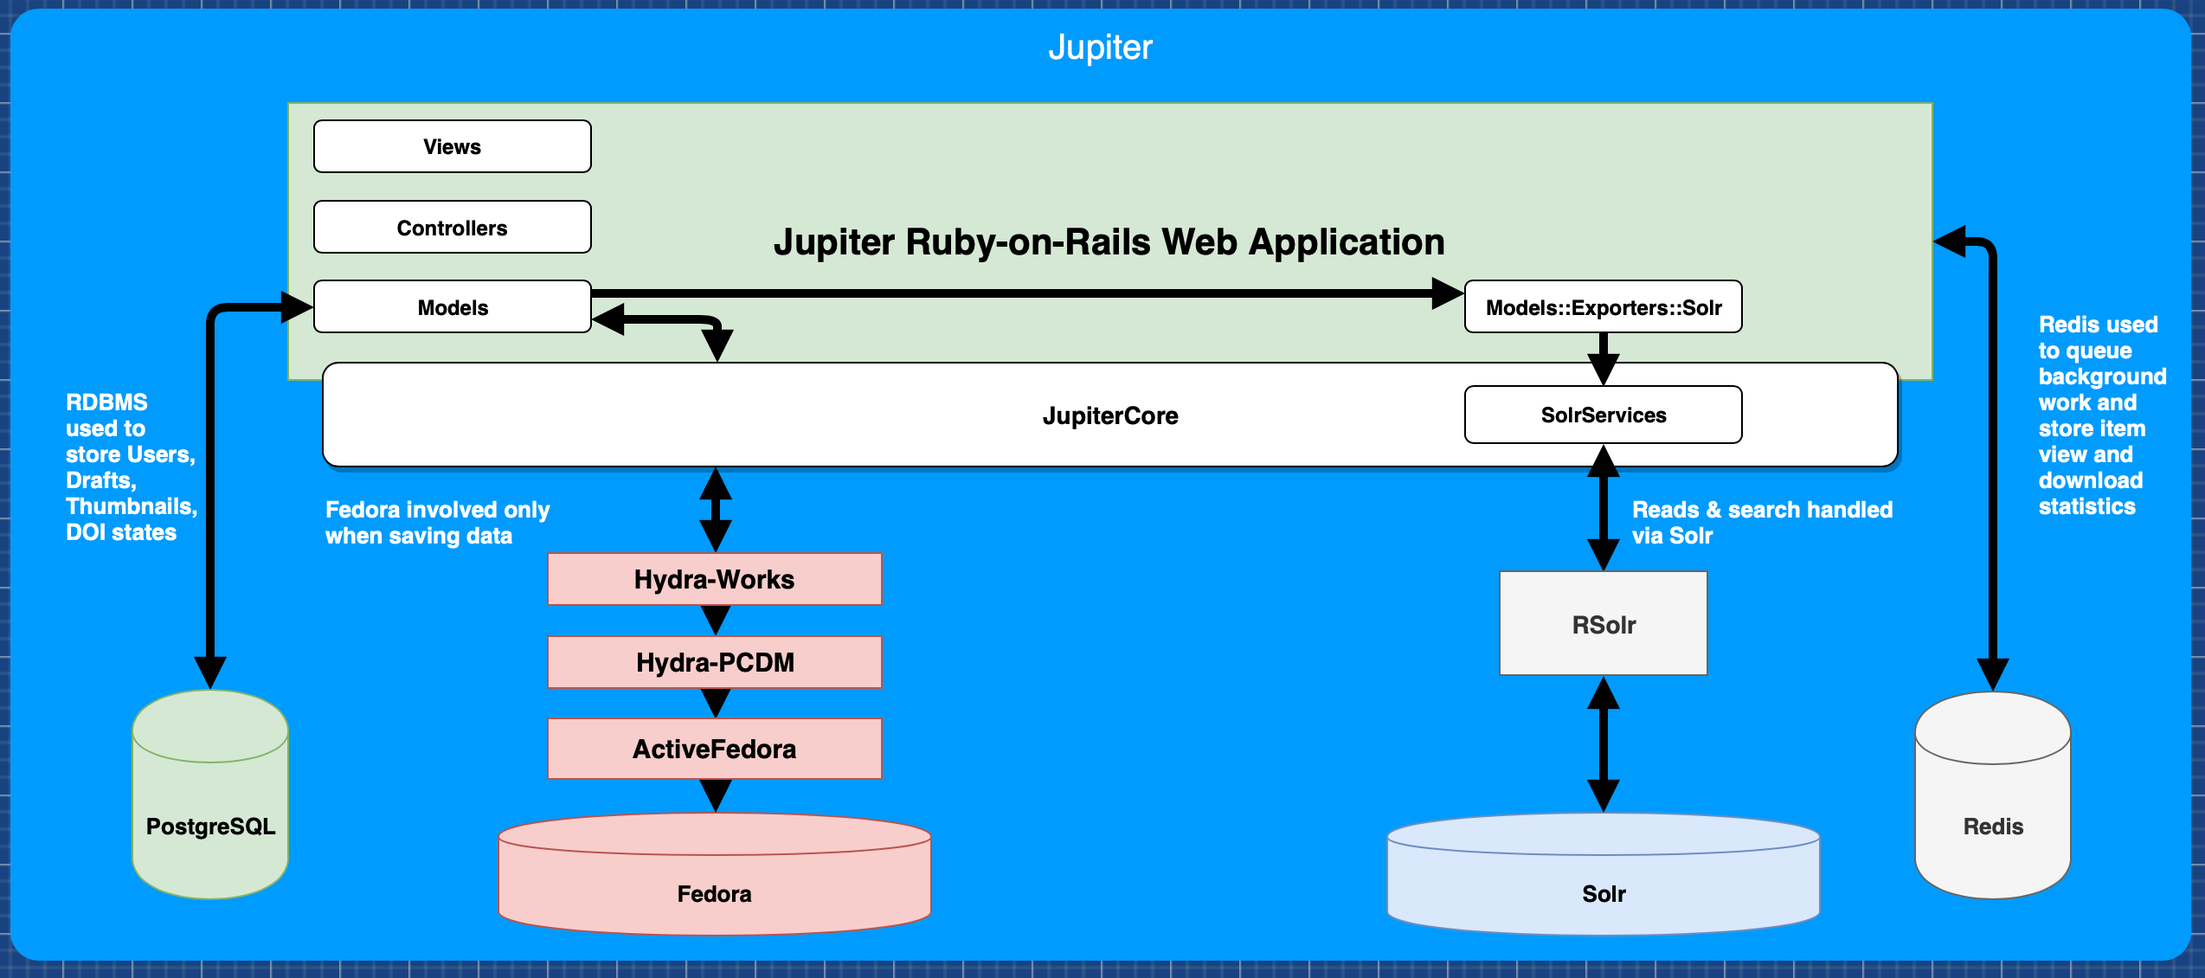
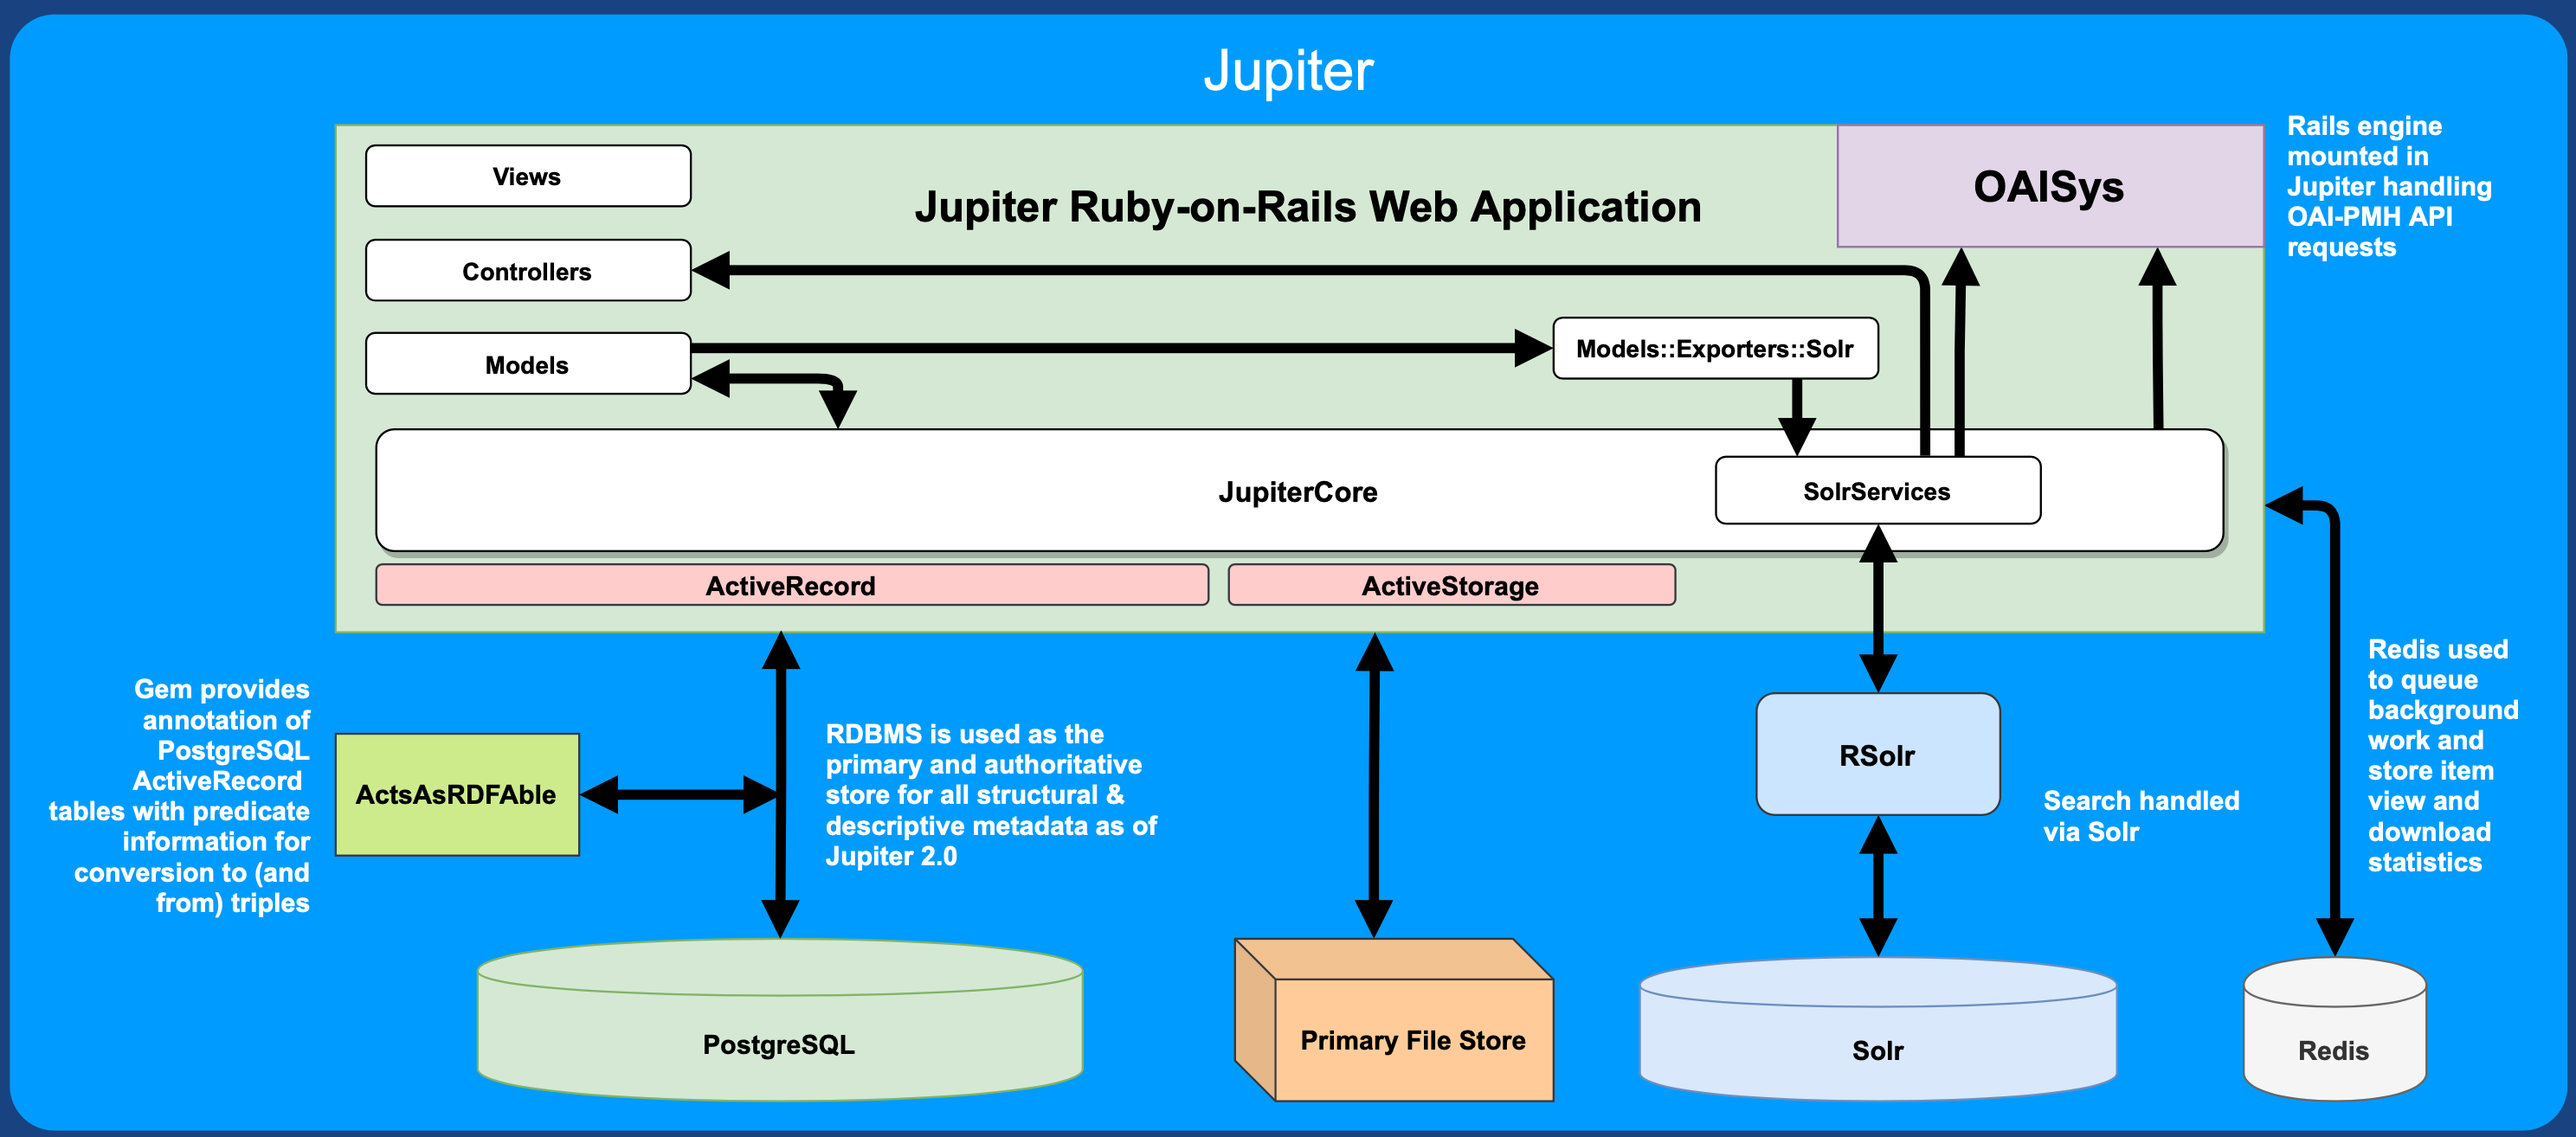
Update architecture diagram

diff --git a/CHANGELOG.md b/CHANGELOG.md
@@ -9,6 +9,7 @@ and releases in Jupiter project adheres to [Semantic Versioning](http://semver.o
 – Remove entirely unnecessary config file.
 – Turn off reporting things like "this excel spreadsheet isn't thumbnailable" as warnings to Rollbar
 – Completely disable logging of warnings around the "excel spreadsheet" issue
+- Updated Architecture diagram
 
 ## [2.0.2] - 2020-12-17
 
